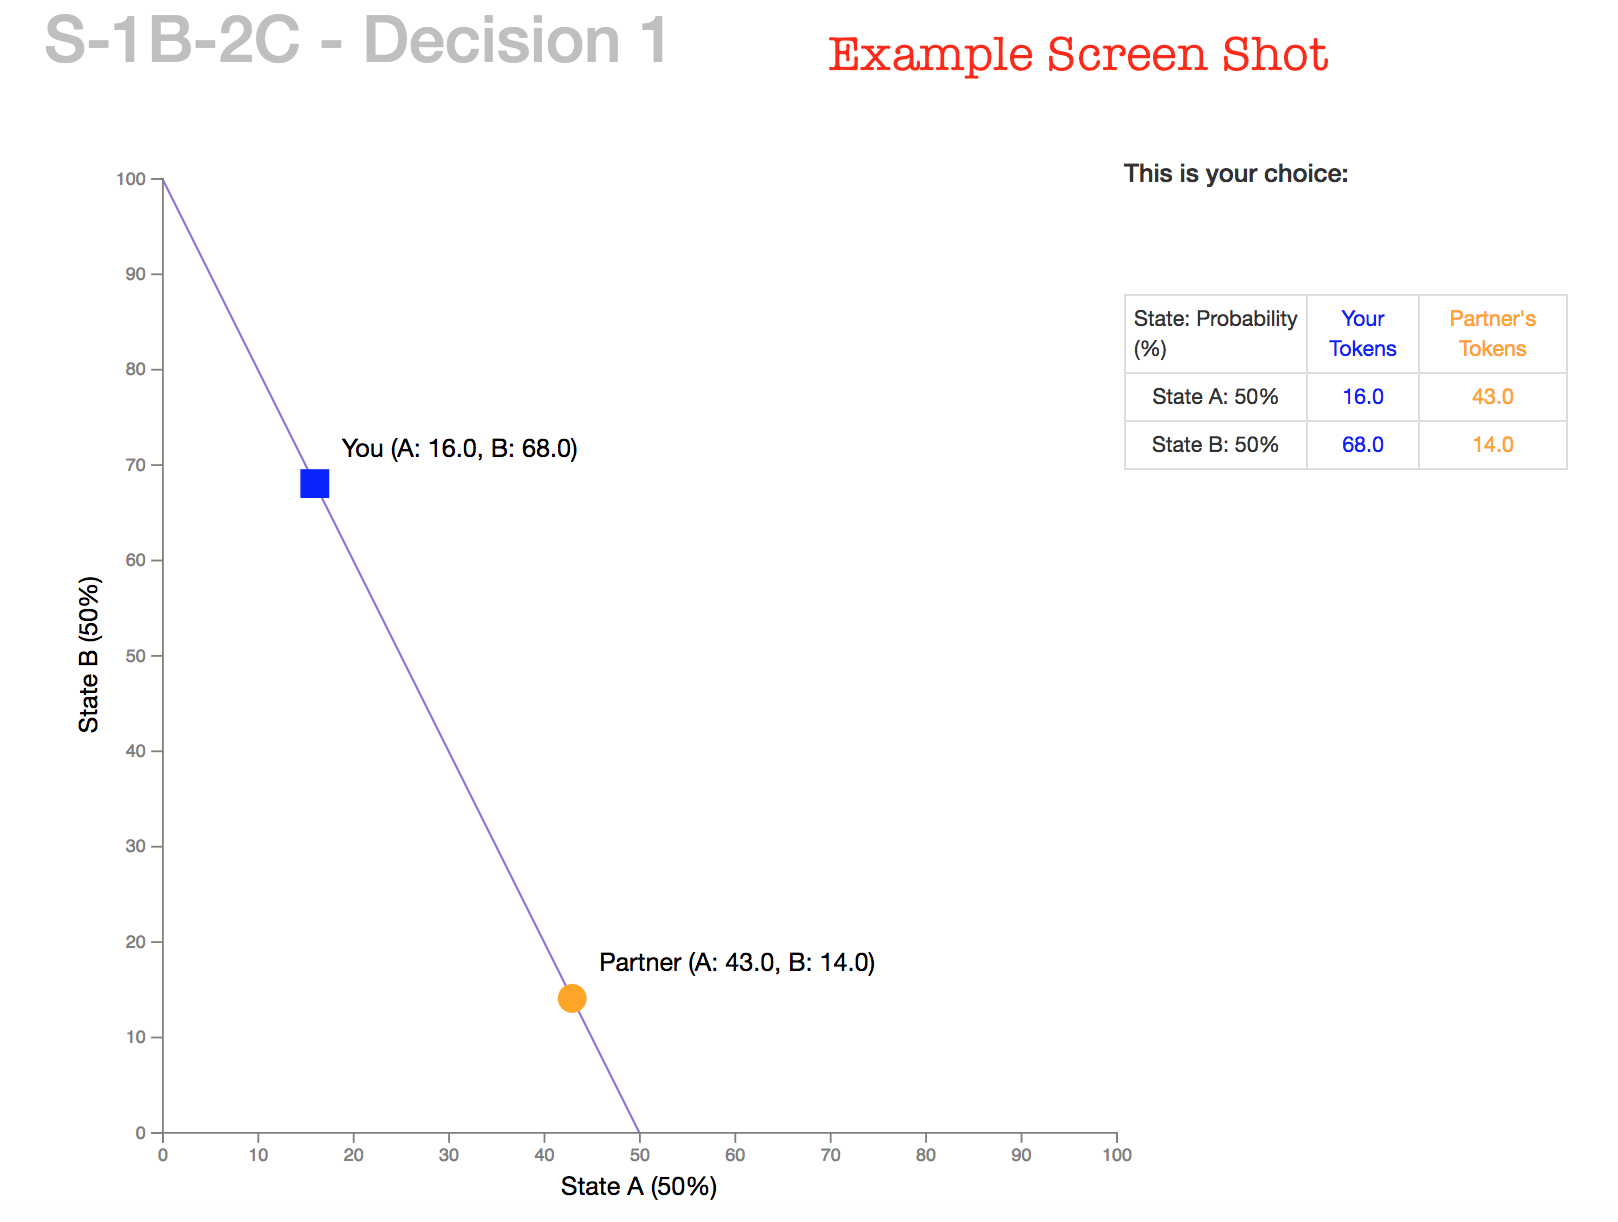
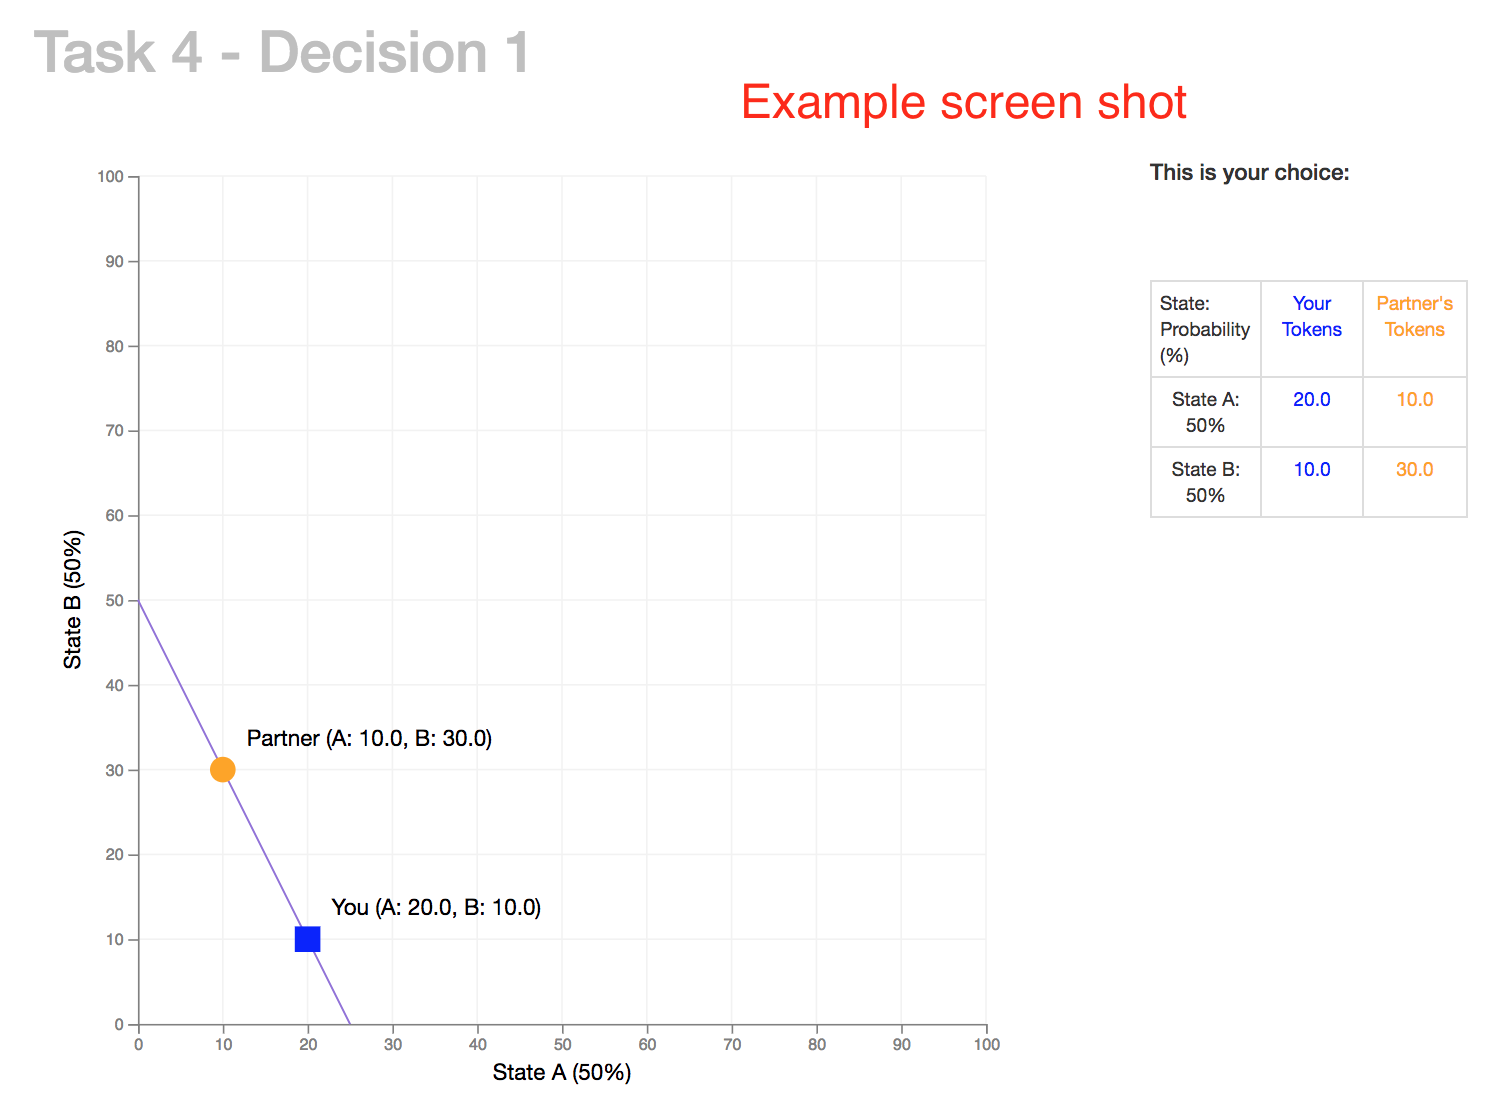
changed pngs for control questions

diff --git a/templates/RiskAndFairness_oTree/ControlQuestions.html b/templates/RiskAndFairness_oTree/ControlQuestions.html
@@ -42,13 +42,13 @@
 
         var modemap = {
             'probability': {you: 70.0, partner: 10.0},
-            'sec_1bl_1ch': {you: 50.0, partner: 50.0},
-            'sec_1bl_2ch': {you: 16.0, partner: 43.0},
-            'sec_2bl_1ch': {you: 50.0, partner: 16.7},
-            'sec_ownrisk': {you_a: 40.0, you_b: 6.7},
-            'sec_ownrisk_fixedother': {you_a: 35.9, partner: 10.0},
-            'sec_otherrisk_ownfixed': {you_a: 30.0, partner: 35.5},
-            'det_giv': {you: 3.9, partner: 30.8}
+            'sec_1bl_1ch': {you: 20.0, partner: 20.0},
+            'sec_1bl_2ch': {you: 20.0, partner: 10.0},
+            'sec_2bl_1ch': {you: 10.0, partner: 44.0},
+            'sec_ownrisk': {you_a: 30.0, you_b: 32.0},
+            'sec_ownrisk_fixedother': {you: 20.0, partner: 30.0},
+            'sec_otherrisk_ownfixed': {you: 30.0, partner: 26.0},
+            'det_giv': {you: 50.0, partner: 25.0}
         }
     
         assign_questions = function()
@@ -191,7 +191,7 @@
         {% if mode == 'probability' %}
             <img src="{% static 'probability.png' %}" width="700">   
         {% elif mode == 'sec_1bl_1ch' %}
-            <img src="{% static 'sec_1bl_1ch_1.png' %}" width="700">
+            <img src="{% static 'sec_1bl_1ch.png' %}" width="700">
         {% elif mode == 'sec_2bl_1ch' %}
             <img src="{% static 'sec_2bl_1ch.png' %}" width="700">
         {% elif mode == 'sec_1bl_2ch' %}

diff --git a/config.py b/config.py
@@ -22,88 +22,115 @@ shuffle = True
 # should never have more than 8 elements.
 # If chosen rounds is empty, models.py will randomly assign the chosen round for each group.
 # indexing starts at 1, not 0
-chosen_rounds = [2]
+chosen_rounds = []
+
+# data = [
+#     [
+#         {'mode': 'det_giv', 'm': 20, 'p_x': .2},
+#         {'mode': 'det_giv', 'm': 40, 'p_x': 1},
+#         {'mode': 'det_giv', 'm': 40, 'p_x': .667},
+#         {'mode': 'det_giv', 'm': 40, 'p_x': .5},
+#         {'mode': 'det_giv', 'm': 40, 'p_x': .4},
+#         {'mode': 'det_giv', 'm': 60, 'p_x': 1.5},
+#         {'mode': 'det_giv', 'm': 60, 'p_x': 1},
+#         {'mode': 'det_giv', 'm': 60, 'p_x': .75},
+#         {'mode': 'det_giv', 'm': 60, 'p_x': .6},
+#         {'mode': 'det_giv', 'm': 80, 'p_x': 2},
+#         {'mode': 'det_giv', 'm': 80, 'p_x': 1.333},
+#         {'mode': 'det_giv', 'm': 80, 'p_x': 1},
+#         {'mode': 'det_giv', 'm': 100, 'p_x': 5},
+#         {'mode': 'det_giv', 'm': 100, 'p_x': 2.5},
+#         {'mode': 'det_giv', 'm': 100, 'p_x': 1.25}
+#     ],
+#     [
+#         {'mode': 'sec_1bl_1ch', 'm': 20, 'p_x': .5},
+#         {'mode': 'sec_1bl_1ch', 'm': 20, 'p_x': .333},
+#         {'mode': 'sec_1bl_1ch', 'm': 20, 'p_x': .25},
+#         {'mode': 'sec_1bl_1ch', 'm': 20, 'p_x': .2},
+#         {'mode': 'sec_1bl_1ch', 'm': 40, 'p_x': 1},
+#         {'mode': 'sec_1bl_1ch', 'm': 40, 'p_x': .667},
+#         {'mode': 'sec_1bl_1ch', 'm': 40, 'p_x': .5},
+#         {'mode': 'sec_1bl_1ch', 'm': 40, 'p_x': .4},
+#         {'mode': 'sec_1bl_1ch', 'm': 60, 'p_x': 1.5},
+#         {'mode': 'sec_1bl_1ch', 'm': 60, 'p_x': 1},
+#         {'mode': 'sec_1bl_1ch', 'm': 60, 'p_x': .75},
+#         {'mode': 'sec_1bl_1ch', 'm': 60, 'p_x': .6},
+#     ],
+#     [
+#         {'mode': 'sec_2bl_1ch'   , 'm': 20, 'p_x': 0.5},
+#         {'mode': 'sec_2bl_1ch'   , 'm': 20, 'p_x': .333},
+#         {'mode': 'sec_2bl_1ch'   , 'm': 20, 'p_x': 0.25},
+#         {'mode': 'sec_2bl_1ch'   , 'm': 20, 'p_x': 0.2},
+#         {'mode': 'sec_2bl_1ch'   , 'm': 40, 'p_x': 1},
+#         {'mode': 'sec_2bl_1ch'   , 'm': 40, 'p_x': .667},
+#         {'mode': 'sec_2bl_1ch'   , 'm': 40, 'p_x': 0.5},
+#         {'mode': 'sec_2bl_1ch'   , 'm': 40, 'p_x': 0.4},
+#         {'mode': 'sec_2bl_1ch'   , 'm': 60, 'p_x': 1.5},
+#         {'mode': 'sec_2bl_1ch'   , 'm': 60, 'p_x': 1},
+#         {'mode': 'sec_2bl_1ch'   , 'm': 60, 'p_x': .75},
+#         {'mode': 'sec_2bl_1ch'   , 'm': 60, 'p_x': 0.6},
+#     ],
+#     [
+#         {'mode': 'sec_ownrisk'   , 'm': 20, 'p_x': 0.5},
+#         {'mode': 'sec_ownrisk'   , 'm': 20, 'p_x': .333},
+#         {'mode': 'sec_ownrisk'   , 'm': 20, 'p_x': 0.25},
+#         {'mode': 'sec_ownrisk'   , 'm': 20, 'p_x': 0.2},
+#         {'mode': 'sec_ownrisk'   , 'm': 40, 'p_x': 1},
+#         {'mode': 'sec_ownrisk'   , 'm': 40, 'p_x': .667},
+#         {'mode': 'sec_ownrisk'   , 'm': 40, 'p_x': 0.5},
+#         {'mode': 'sec_ownrisk'   , 'm': 40, 'p_x': 0.4},
+#         {'mode': 'sec_ownrisk'   , 'm': 60, 'p_x': 1.5},
+#         {'mode': 'sec_ownrisk'   , 'm': 60, 'p_x': 1},
+#         {'mode': 'sec_ownrisk'   , 'm': 60, 'p_x': .75},
+#         {'mode': 'sec_ownrisk'   , 'm': 60, 'p_x': 0.6},
+#     ],
+#     [
+#         {'mode': 'sec_ownrisk_fixedother', 'm': 40, 'p_x': 1,       'a': 5, 'b': 5},
+#         {'mode': 'sec_ownrisk_fixedother', 'm': 40, 'p_x': .667,    'a': 5, 'b': 5},
+#         {'mode': 'sec_ownrisk_fixedother', 'm': 40, 'p_x': .5,      'a': 5, 'b': 5},
+#         {'mode': 'sec_ownrisk_fixedother', 'm': 40, 'p_x': .4,      'a': 5, 'b': 5},
+#         {'mode': 'sec_ownrisk_fixedother', 'm': 40, 'p_x': 1,       'a': 23, 'b': 23},
+#         {'mode': 'sec_ownrisk_fixedother', 'm': 40, 'p_x': .667,    'a': 23, 'b': 23},
+#         {'mode': 'sec_ownrisk_fixedother', 'm': 40, 'p_x': .5,      'a': 23, 'b': 23},
+#         {'mode': 'sec_ownrisk_fixedother', 'm': 40, 'p_x': .4,      'a': 23, 'b': 23},
+#         {'mode': 'sec_ownrisk_fixedother', 'm': 40, 'p_x': 1,       'a': 60, 'b': 60},
+#         {'mode': 'sec_ownrisk_fixedother', 'm': 40, 'p_x': .667,    'a': 60, 'b': 60},
+#         {'mode': 'sec_ownrisk_fixedother', 'm': 40, 'p_x': .5,      'a': 60, 'b': 60},
+#         {'mode': 'sec_ownrisk_fixedother', 'm': 40, 'p_x': .4,      'a': 60, 'b': 60},
+#     ],
+#     [
+#         {'mode': 'probability', 'a_x': 90, 'a_y': 10, 'b_x': 10, 'b_y': 90},
+#         {'mode': 'probability', 'a_x': 90, 'a_y': 10, 'b_x': 10, 'b_y': 45},
+#         {'mode': 'probability', 'a_x': 45, 'a_y': 10, 'b_x': 10, 'b_y': 90},
+#         {'mode': 'probability', 'a_x': 70, 'a_y': 10, 'b_x': 40, 'b_y': 40},
+#         {'mode': 'probability', 'a_x': 10, 'a_y': 70, 'b_x': 40, 'b_y': 40},
+#     ]
+# ]
 
 data = [
     [
-    # {'mode': 'det_giv', 'm': 20, 'p_x': .2},
-    # {'mode': 'det_giv', 'm': 40, 'p_x': 1},
-    # {'mode': 'det_giv', 'm': 40, 'p_x': .667},
-    # {'mode': 'det_giv', 'm': 40, 'p_x': .5},
-    # {'mode': 'det_giv', 'm': 40, 'p_x': .4},
-    # {'mode': 'det_giv', 'm': 60, 'p_x': 1.5},
-    # {'mode': 'det_giv', 'm': 60, 'p_x': 1},
-    # {'mode': 'det_giv', 'm': 60, 'p_x': .75},
-    # {'mode': 'det_giv', 'm': 60, 'p_x': .6},
-    # {'mode': 'det_giv', 'm': 80, 'p_x': 2},
-    # {'mode': 'det_giv', 'm': 80, 'p_x': 1.333},
-    # {'mode': 'det_giv', 'm': 80, 'p_x': 1},
-    # {'mode': 'det_giv', 'm': 100, 'p_x': 5},
-    # {'mode': 'det_giv', 'm': 100, 'p_x': 2.5},
-    # {'mode': 'det_giv', 'm': 100, 'p_x': 1.25}
+        {'mode': 'det_giv', 'm': 50, 'p_x': 0.50},
     ],
     [
-    {'mode': 'sec_1bl_1ch', 'm': 20, 'p_x': .5},
-    # {'mode': 'sec_1bl_1ch', 'm': 20, 'p_x': .333},
-    # {'mode': 'sec_1bl_1ch', 'm': 20, 'p_x': .25},
-    # {'mode': 'sec_1bl_1ch', 'm': 20, 'p_x': .2},
-    # {'mode': 'sec_1bl_1ch', 'm': 40, 'p_x': 1},
-    # {'mode': 'sec_1bl_1ch', 'm': 40, 'p_x': .667},
-    # {'mode': 'sec_1bl_1ch', 'm': 40, 'p_x': .5},
-    # {'mode': 'sec_1bl_1ch', 'm': 40, 'p_x': .4},
-    # {'mode': 'sec_1bl_1ch', 'm': 60, 'p_x': 1.5},
-    # {'mode': 'sec_1bl_1ch', 'm': 60, 'p_x': 1},
-    # {'mode': 'sec_1bl_1ch', 'm': 60, 'p_x': .75},
-    # {'mode': 'sec_1bl_1ch', 'm': 60, 'p_x': .6},
+        {'mode': 'sec_1bl_1ch', 'm': 50, 'p_x': 0.60},
     ],
     [
-    {'mode': 'sec_2bl_1ch'   , 'm': 20, 'p_x': 0.5},
-    # {'mode': 'sec_2bl_1ch'   , 'm': 20, 'p_x': .333},
-    # {'mode': 'sec_2bl_1ch'   , 'm': 20, 'p_x': 0.25},
-    # {'mode': 'sec_2bl_1ch'   , 'm': 20, 'p_x': 0.2},
-    # {'mode': 'sec_2bl_1ch'   , 'm': 40, 'p_x': 1},
-    # {'mode': 'sec_2bl_1ch'   , 'm': 40, 'p_x': .667},
-    # {'mode': 'sec_2bl_1ch'   , 'm': 40, 'p_x': 0.5},
-    # {'mode': 'sec_2bl_1ch'   , 'm': 40, 'p_x': 0.4},
-    # {'mode': 'sec_2bl_1ch'   , 'm': 60, 'p_x': 1.5},
-    # {'mode': 'sec_2bl_1ch'   , 'm': 60, 'p_x': 1},
-    # {'mode': 'sec_2bl_1ch'   , 'm': 60, 'p_x': .75},
-    # {'mode': 'sec_2bl_1ch'   , 'm': 60, 'p_x': 0.6},
+        {'mode': 'sec_1bl_2ch', 'm': 50, 'p_x': 2},
     ],
     [
-    # {'mode': 'sec_ownrisk'   , 'm': 20, 'p_x': 0.5},
-    # {'mode': 'sec_ownrisk'   , 'm': 20, 'p_x': .333},
-    # {'mode': 'sec_ownrisk'   , 'm': 20, 'p_x': 0.25},
-    # {'mode': 'sec_ownrisk'   , 'm': 20, 'p_x': 0.2},
-    # {'mode': 'sec_ownrisk'   , 'm': 40, 'p_x': 1},
-    # {'mode': 'sec_ownrisk'   , 'm': 40, 'p_x': .667},
-    # {'mode': 'sec_ownrisk'   , 'm': 40, 'p_x': 0.5},
-    # {'mode': 'sec_ownrisk'   , 'm': 40, 'p_x': 0.4},
-    # {'mode': 'sec_ownrisk'   , 'm': 60, 'p_x': 1.5},
-    # {'mode': 'sec_ownrisk'   , 'm': 60, 'p_x': 1},
-    # {'mode': 'sec_ownrisk'   , 'm': 60, 'p_x': .75},
-    # {'mode': 'sec_ownrisk'   , 'm': 60, 'p_x': 0.6},
+        {'mode': 'sec_2bl_1ch', 'm': 50, 'p_x': 0.60},
     ],
     [
-    #{'mode': 'sec_ownrisk_fixedother', 'm': 40, 'p_x': 1,       'a': 5, 'b': 5},
-    # {'mode': 'sec_ownrisk_fixedother', 'm': 40, 'p_x': .667,    'a': 5, 'b': 5},
-    # {'mode': 'sec_ownrisk_fixedother', 'm': 40, 'p_x': .5,      'a': 5, 'b': 5},
-    # {'mode': 'sec_ownrisk_fixedother', 'm': 40, 'p_x': .4,      'a': 5, 'b': 5},
-    # {'mode': 'sec_ownrisk_fixedother', 'm': 40, 'p_x': 1,       'a': 23, 'b': 23},
-    # {'mode': 'sec_ownrisk_fixedother', 'm': 40, 'p_x': .667,    'a': 23, 'b': 23},
-    # {'mode': 'sec_ownrisk_fixedother', 'm': 40, 'p_x': .5,      'a': 23, 'b': 23},
-    # {'mode': 'sec_ownrisk_fixedother', 'm': 40, 'p_x': .4,      'a': 23, 'b': 23},
-    # {'mode': 'sec_ownrisk_fixedother', 'm': 40, 'p_x': 1,       'a': 60, 'b': 60},
-    # {'mode': 'sec_ownrisk_fixedother', 'm': 40, 'p_x': .667,    'a': 60, 'b': 60},
-    # {'mode': 'sec_ownrisk_fixedother', 'm': 40, 'p_x': .5,      'a': 60, 'b': 60},
-    # {'mode': 'sec_ownrisk_fixedother', 'm': 40, 'p_x': .4,      'a': 60, 'b': 60},
+        {'mode': 'sec_ownrisk', 'm': 50, 'p_x': 0.60},
     ],
     [
-    #{'mode': 'probability', 'a_x': 90, 'a_y': 10, 'b_x': 10, 'b_y': 90},
-    # {'mode': 'probability', 'a_x': 90, 'a_y': 10, 'b_x': 10, 'b_y': 45},
-    # {'mode': 'probability', 'a_x': 45, 'a_y': 10, 'b_x': 10, 'b_y': 90},
-    # {'mode': 'probability', 'a_x': 70, 'a_y': 10, 'b_x': 40, 'b_y': 40},
-    # {'mode': 'probability', 'a_x': 10, 'a_y': 70, 'b_x': 40, 'b_y': 40},
+        {'mode': 'sec_ownrisk_fixedother', 'm': 50, 'p_x': 0.60, 'a': 30, 'b': 13.3},
+    ],
+    [
+        {'mode': 'sec_otherrisk_ownfixed', 'm': 50, 'p_x': 0.60, 'a': 30, 'b': 13.3},
+    ],
+    [
+        {'mode': 'probability', 'a_x': 70, 'a_y': 10, 'b_x': 10, 'b_y': 80}
     ]
 ]
 
@@ -199,11 +226,11 @@ def getChosenRounds():
 
 
 # Syntax for data dictionaries
-# {'mode': 'det_giv', 'm': 50, 'p_x': 0.50, 'p_y': 1, 'prob_a': 50, 'label': {'x': 'Your Tokens', 'y': 'Partner\'s Tokens'}},
-# {'mode': 'sec_1bl_1ch'   , 'm': 50, 'p_x': 0.60, 'p_y': 1, 'prob_a': 50, 'label': {'x': 'State A (50%)','y': 'State B (50%)'}},
-# {'mode': 'sec_1bl_2ch', 'm': 50, 'p_x': 2, 'p_y': 1, 'prob_a': 50, 'label': {'x': 'State A (50%)','y': 'State B (50%)'}},
-# {'mode': 'sec_2bl_1ch'   , 'm': 50, 'p_x': 0.60, 'p_y': 1, 'prob_a': 50, 'label': {'x': 'State A (50%)','y': 'State B (50%)'}},
-# {'mode': 'sec_ownrisk'   , 'm': 50, 'p_x': 0.60, 'p_y': 1, 'prob_a': 50, 'label': {'x': 'State A (50%)','y': 'State B (50%)'}},
-# {'mode': 'sec_ownrisk_fixedother'   , 'm': 50, 'p_x': 0.60, 'p_y': 1, 'prob_a': 50, 'fixed': {'m': 100, 'p_x': 2, 'p_y': 3, 'a': 30}},
-# {'mode': 'sec_otherrisk_ownfixed'   , 'm': 50, 'p_x': 0.60, 'p_y': 1, 'prob_a': 50, 'fixed': {'m': 100, 'p_x': 2, 'p_y': 3, 'a': 30}},
-# {'mode': 'probability', 'a_x': 70, 'a_y': 10, 'b_x': 10, 'b_y': 80, 'label': {'x': 'Your Tokens', 'y': 'Partner\'s Tokens'}}
+# {'mode': 'det_giv', 'm': 50, 'p_x': 0.5, 'p_y': 1, 'prob_a': 50, 'label': {'x': 'Your Tokens', 'y': "Partner's Tokens"}}
+# {'mode': 'sec_1bl_1ch', 'm': 50, 'p_x': 0.6, 'p_y': 1, 'prob_a': 50, 'label': {'x': 'State A (50%)', 'y': 'State B (50%)'}}
+# {'mode': 'sec_1bl_2ch', 'm': 50, 'p_x': 2, 'p_y': 1, 'prob_a': 50, 'label': {'x': 'State A (50%)', 'y': 'State B (50%)'}}
+# {'mode': 'sec_2bl_1ch', 'm': 50, 'p_x': 0.6, 'p_y': 1, 'prob_a': 50, 'label': {'x': 'State A (50%)', 'y': 'State B (50%)'}}
+# {'mode': 'sec_ownrisk', 'm': 50, 'p_x': 0.6, 'p_y': 1, 'prob_a': 50, 'label': {'x': 'State A (50%)', 'y': 'State B (50%)'}}
+# {'mode': 'sec_ownrisk_fixedother', 'm': 50, 'p_x': 0.6, 'a': 30, 'b': 13.3, 'p_y': 1, 'prob_a': 50, 'fixed': {'m': 43.3, 'p_x': 1, 'p_y': 1, 'a': 30}, 'label': {'x': 'State A (50%)', 'y': 'State B (50%)'}}
+# {'mode': 'sec_otherrisk_ownfixed', 'm': 50, 'p_x': 0.6, 'a': 30, 'b': 13.3, 'p_y': 1, 'prob_a': 50, 'fixed': {'m': 43.3, 'p_x': 1, 'p_y': 1, 'a': 30}, 'label': {'x': 'State A (50%)', 'y': 'State B (50%)'}}
+# {'mode': 'probability', 'a_x': 70, 'a_y': 10, 'b_x': 10, 'b_y': 80, 'label': {'x': 'Your Tokens', 'y': "Partner's Tokens"}}
